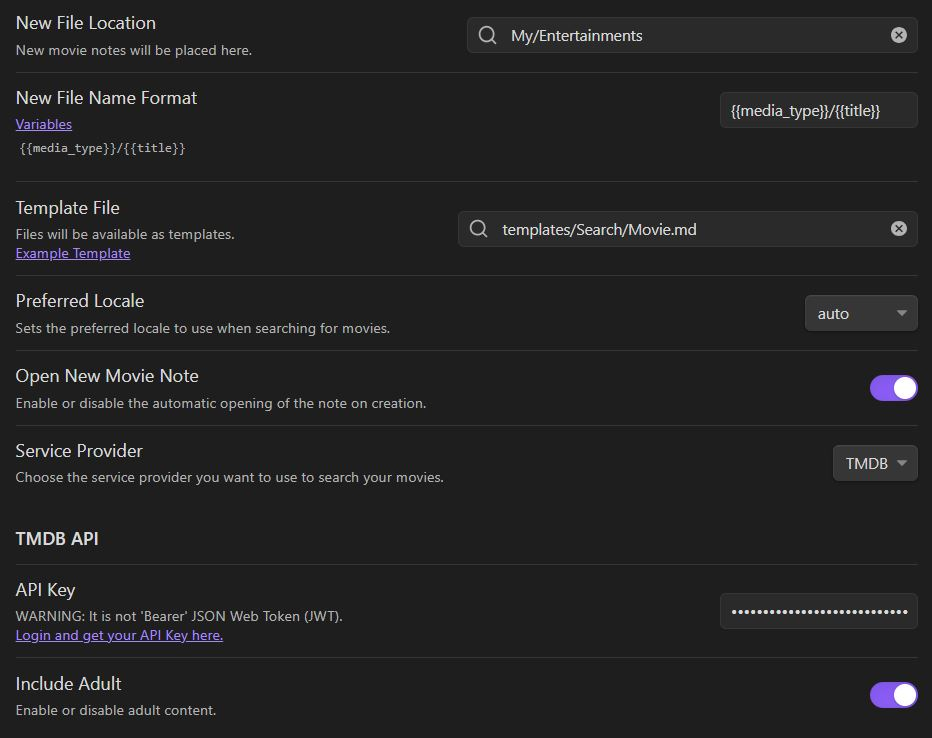
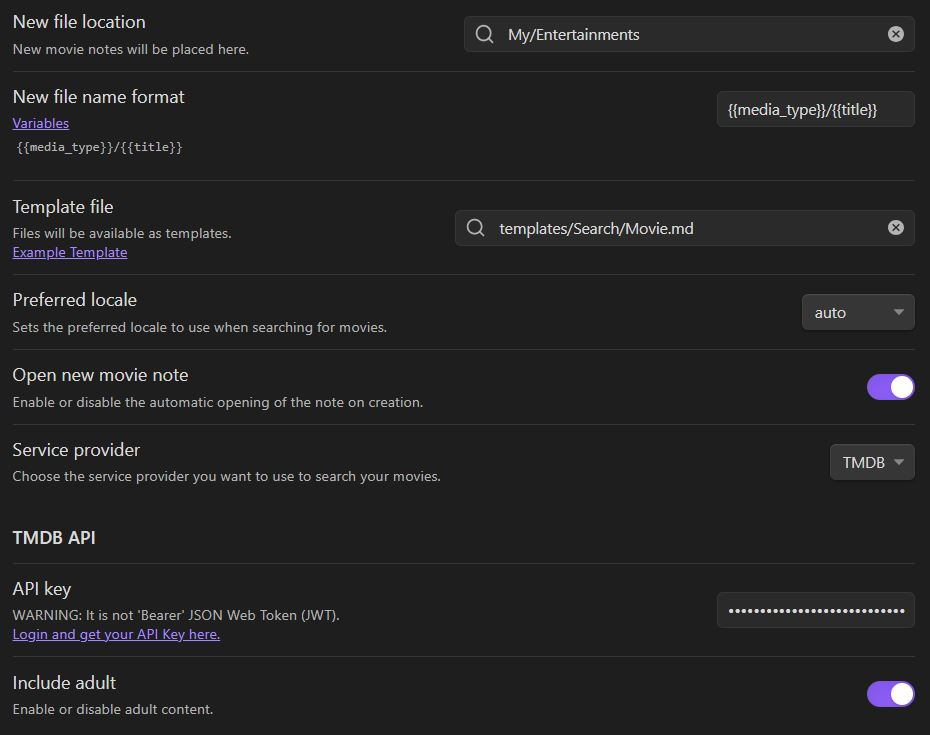
Use sentence case in the settings

diff --git a/src/settings/settings.ts b/src/settings/settings.ts
@@ -63,7 +63,7 @@ export class MovieSearchSettingTab extends PluginSettingTab {
 		containerEl.classList.add("movie-search-plugin__settings");
 		// General Settings
 		new Setting(containerEl)
-			.setName("New File Location")
+			.setName("New file location")
 			.setDesc("New movie notes will be placed here.")
 			.addSearch(cb => {
 				try {
@@ -89,7 +89,7 @@ export class MovieSearchSettingTab extends PluginSettingTab {
 		});
 		new Setting(containerEl)
 			.setClass("movie-search-plugin__settings--new_file_name")
-			.setName("New File Name Format")
+			.setName("New file name format")
 			.setDesc(file_name_format_desc)
 			.addText(cb => {
 				cb.setPlaceholder("Example: {{title}}")
@@ -114,7 +114,7 @@ export class MovieSearchSettingTab extends PluginSettingTab {
 			href: `${plugin_repo_url}#example-template`,
 		});
 		new Setting(containerEl)
-			.setName("Template File")
+			.setName("Template file")
 			.setDesc(template_file_desc)
 			.addSearch(cb => {
 				try {
@@ -130,7 +130,7 @@ export class MovieSearchSettingTab extends PluginSettingTab {
 					});
 			});
 		new Setting(containerEl)
-			.setName("Preferred Locale")
+			.setName("Preferred locale")
 			.setDesc("Sets the preferred locale to use when searching for movies.")
 			.addDropdown(dropdown => {
 				const default_locale = "auto";
@@ -151,7 +151,7 @@ export class MovieSearchSettingTab extends PluginSettingTab {
 				});
 			});
 		new Setting(containerEl)
-			.setName("Open New Movie Note")
+			.setName("Open new movie note")
 			.setDesc("Enable or disable the automatic opening of the note on creation.")
 			.addToggle(toggle =>
 				toggle.setValue(this.plugin.settings.open_page_on_completion).onChange(async value => {
@@ -160,7 +160,7 @@ export class MovieSearchSettingTab extends PluginSettingTab {
 				}),
 			);
 		new Setting(containerEl)
-			.setName("Service Provider")
+			.setName("Service provider")
 			.setDesc("Choose the service provider you want to use to search your movies.")
 			.setClass("movie-search-plugin__settings--service_provider")
 			.addDropdown(dropDown => {
@@ -185,7 +185,7 @@ export class MovieSearchSettingTab extends PluginSettingTab {
 		});
 		APISettings.push(
 			new Setting(containerEl)
-				.setName("API Key")
+				.setName("API key")
 				.setDesc(api_key_desc)
 				.addText(text => {
 					text.inputEl.type = "password";
@@ -197,7 +197,7 @@ export class MovieSearchSettingTab extends PluginSettingTab {
 		);
 		APISettings.push(
 			new Setting(containerEl)
-				.setName("Include Adult")
+				.setName("Include adult")
 				.setDesc("Enable or disable adult content.")
 				.addToggle(toggle =>
 					toggle.setValue(this.plugin.settings.include_adult).onChange(async value => {
